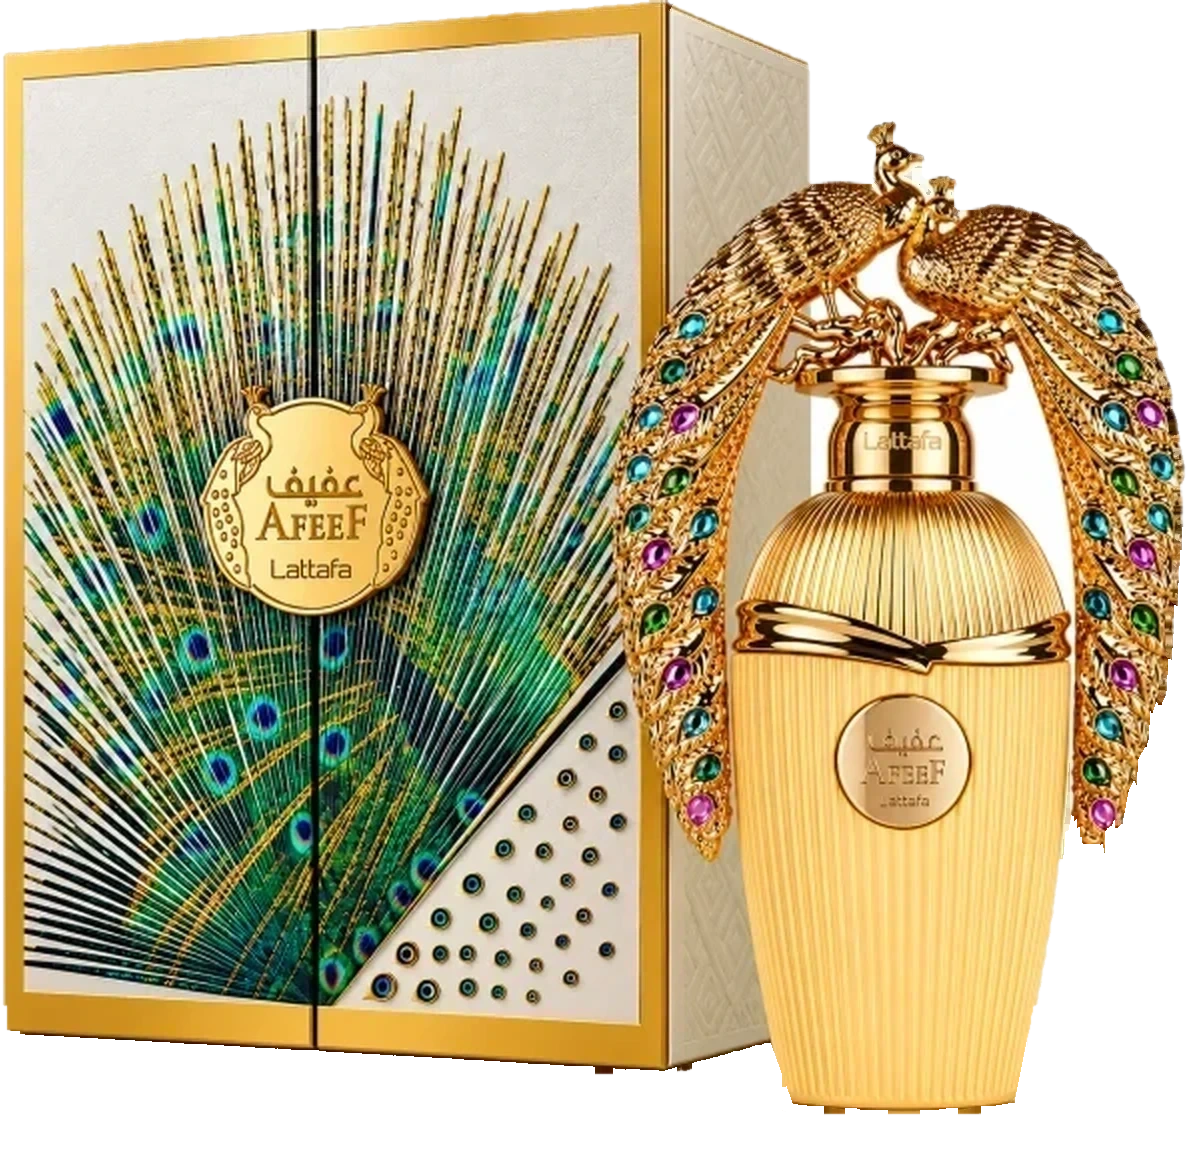
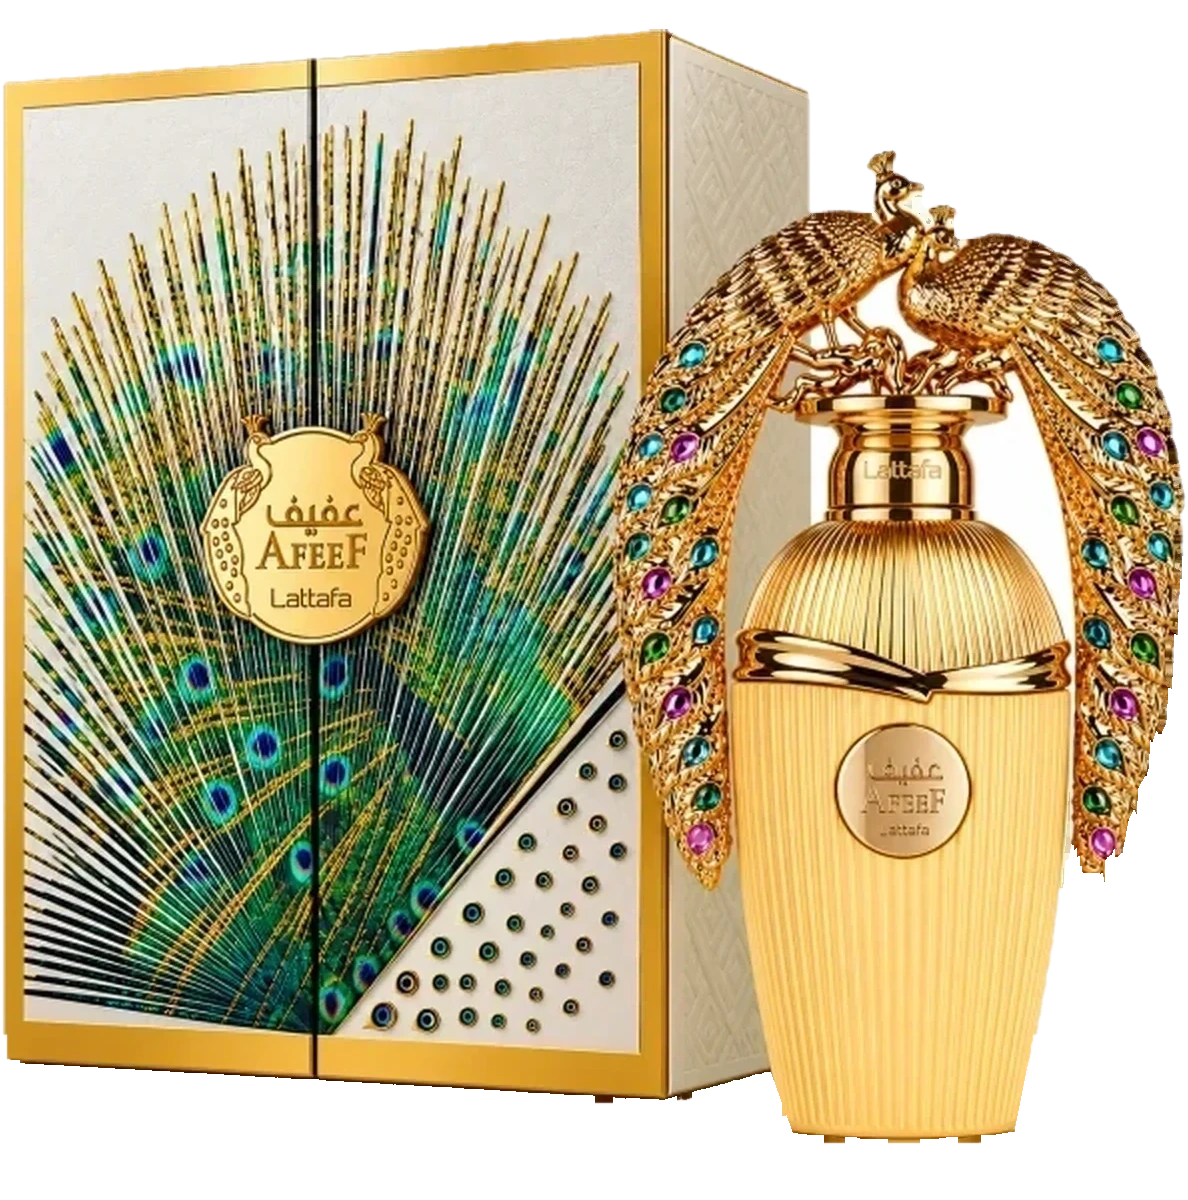
Fotos: sem mancha cinza nem fundo vazando pelo vidro na página do produto, frascos inteiros no leque e Afeef sem corte no topo
Claude-Session: https://claude.ai/code/session_01FdAVQZNArXfWkT9qENV8WZ

diff --git a/src/embarque.css b/src/embarque.css
@@ -487,3 +487,13 @@ body.ax .fh-tick a { color:#d7d7da !important } body.ax .fh-tick a b { color:var
   .fh-cta { margin-top:14px } .fh-cta > * { height:48px }
 }
 @media (max-width:979px) and (max-height:700px) { .fh-stage { height:300px } .fh-t { --w:136px } .fh-fan { top:54px } .fh-rt { font-size:1rem } .fh-n b { font-size:.8125rem } .fh-stamp { width:46px; height:46px } }
+
+/* fotos sem mancha: a sombra preta do visual escuro antigo vira uma sombra leve e quente no papel claro */
+body.ax .pdp-img, body.ax .lt-page .pdp-img { background:radial-gradient(60% 55% at 50% 62%,#fff,rgba(255,255,255,0) 72%),linear-gradient(180deg,var(--card),#ece3d2); box-shadow:none; border-radius:14px }
+body.ax .pdp-img.cut img { padding:7% 8% 5%; filter:drop-shadow(0 16px 16px rgba(70,50,20,.22)) }
+body.ax .card .thumb.cut img.m { filter:drop-shadow(0 12px 12px rgba(70,50,20,.22)) }
+/* leque: os bilhetes dos lados mais afastados, para o frasco deles aparecer inteiro */
+.fh-l { transform:rotate(-11deg) translateX(-56%) scale(.9) }
+.fh-r { transform:rotate(11deg) translateX(56%) scale(.9) }
+.fh-l .fh-ph img { left:40%; max-width:80% } .fh-r .fh-ph img { left:60%; max-width:80% }
+@media (max-width:979px) { .fh-l { transform:rotate(-10deg) translateX(-52%) scale(.84) } .fh-r { transform:rotate(10deg) translateX(52%) scale(.84) } }

diff --git a/src/lib/cutouts.ts b/src/lib/cutouts.ts
@@ -25,7 +25,7 @@ const CUT = new Set([
 ])
 
 // PHOTO_V muda quando as fotos são refeitas, para o navegador não mostrar a versão antiga guardada
-const PHOTO_V = 4
+const PHOTO_V = 5
 export const cutoutOf = (id: string) => (CUT.has(id) ? `/hero/${id}.webp?v=${PHOTO_V}` : undefined)
 
 /** Sempre usa o recorte limpo quando ele existe (mesmo se o painel tiver uma foto com fundo branco). */
